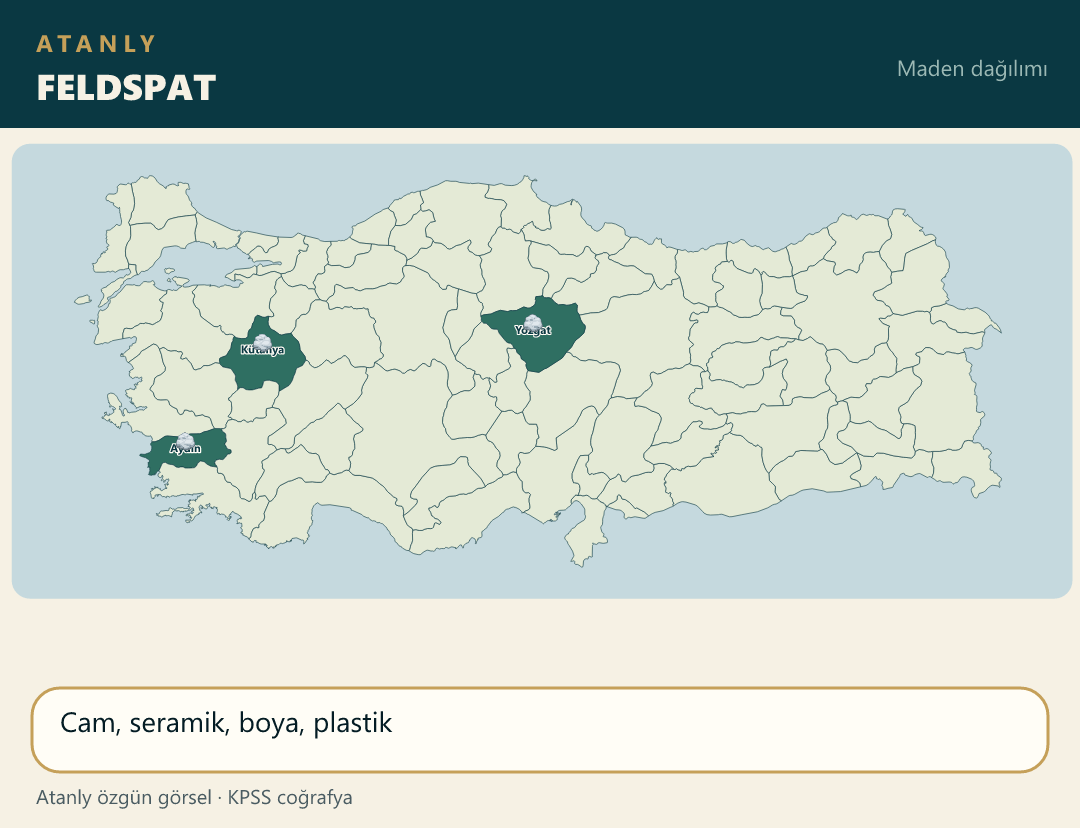
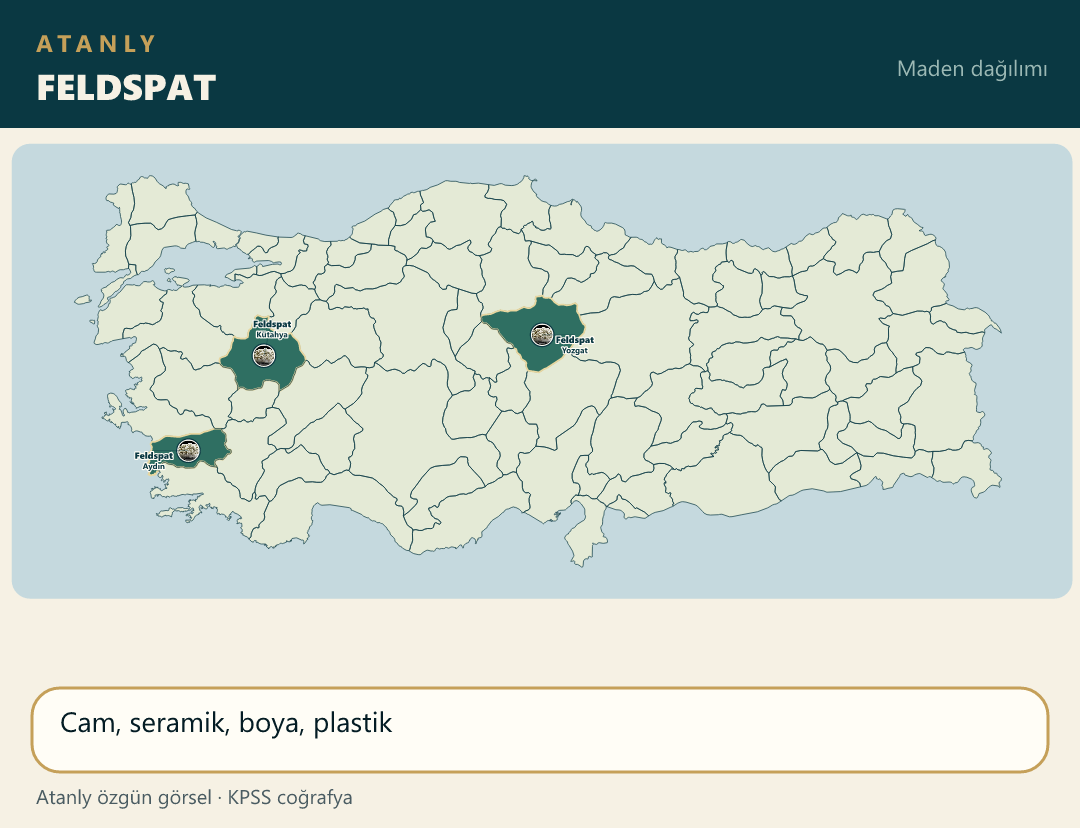
Place the feldspar photo on Aydın, Kütahya and Yozgat land-center pins.

diff --git a/scripts/build-atanly-maps.js b/scripts/build-atanly-maps.js
@@ -488,7 +488,7 @@ function topicIcon(file) {
         madenuranyum: "uranium", madentoryum: "uranium", madenciva: "mercury", madentuz: "salt",
         madenperlit: "rock", madenpomza: "rock", madenkukurt: "sulfur", madenmanganez: "iron",
         madenkursun: "lead", madenoltu: "jet", madenlule: "rock", madenvolfram: "tungsten",
-        madenfeldspat: "rock", madenzimpara: "emery", madenetiket: "ore"
+        madenfeldspat: "feldspar", madenzimpara: "emery", madenetiket: "ore"
     };
     return T[k] || null;
 }
@@ -1084,7 +1084,12 @@ function main() {
         { file: "maden_volfram.png", title: "VOLFRAM (TUNGSTEN)", iller: ["Bursa"],
             yazilar: ["Uludağ"],
             facts: ["Sert metal alaşımı", "Uludağ"] },
-        { file: "maden_feldspat.png", title: "FELDSPAT", iller: ["Aydın", "Kütahya", "Yozgat"],
+        { file: "maden_feldspat.png", title: "FELDSPAT", urun: "Feldspat",
+            noktalar: [
+                { il: "Aydın", ldx: -34, ldy: 8 },
+                { il: "Kütahya", ldx: 8, ldy: -28 },
+                { il: "Yozgat", ldx: 32, ldy: 8 }
+            ],
             facts: ["Cam, seramik, boya, plastik"] },
         { file: "maden_zimpara.png", title: "ZIMPARA TAŞI", iller: ["Aydın", "Antalya"],
             yazilar: ["Aydın", "Alanya"],

diff --git a/notlar/cografya-21-not.js b/notlar/cografya-21-not.js
@@ -2,7 +2,7 @@
 (function () {
     function harita(src, alt) {
         return '<div class="mt-4 overflow-hidden rounded-xl border border-blue-200 dark:border-blue-700/50 bg-white dark:bg-slate-800 p-2">' +
-            '<img src="./src/img/' + src + '?v=21" alt="' + alt + ' Haritası" class="w-full h-auto rounded-lg object-contain" loading="lazy">' +
+            '<img src="./src/img/' + src + '?v=22" alt="' + alt + ' Haritası" class="w-full h-auto rounded-lg object-contain" loading="lazy">' +
             "</div>";
     }
 

diff --git a/index.html b/index.html
@@ -119,7 +119,7 @@
     <script src="notlar/cografya-18-not.js?v=17"></script>
     <script src="notlar/cografya-19-not.js?v=25"></script>
     <script src="notlar/cografya-20-not.js?v=1"></script>
-    <script src="notlar/cografya-21-not.js?v=14"></script>
+    <script src="notlar/cografya-21-not.js?v=15"></script>
     <script src="notlar/cografya-22-not.js?v=1"></script>
     <script src="notlar/cografya-23-not.js?v=1"></script>
     <script src="notlar/cografya-24-not.js?v=1"></script>
